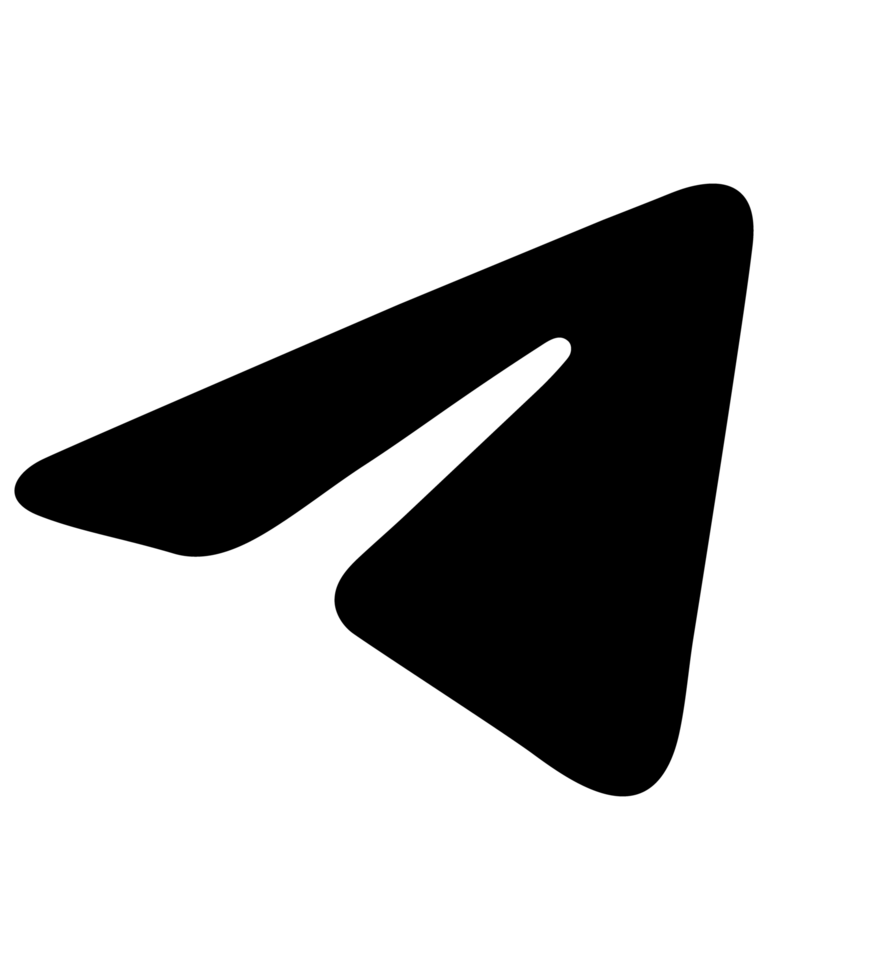
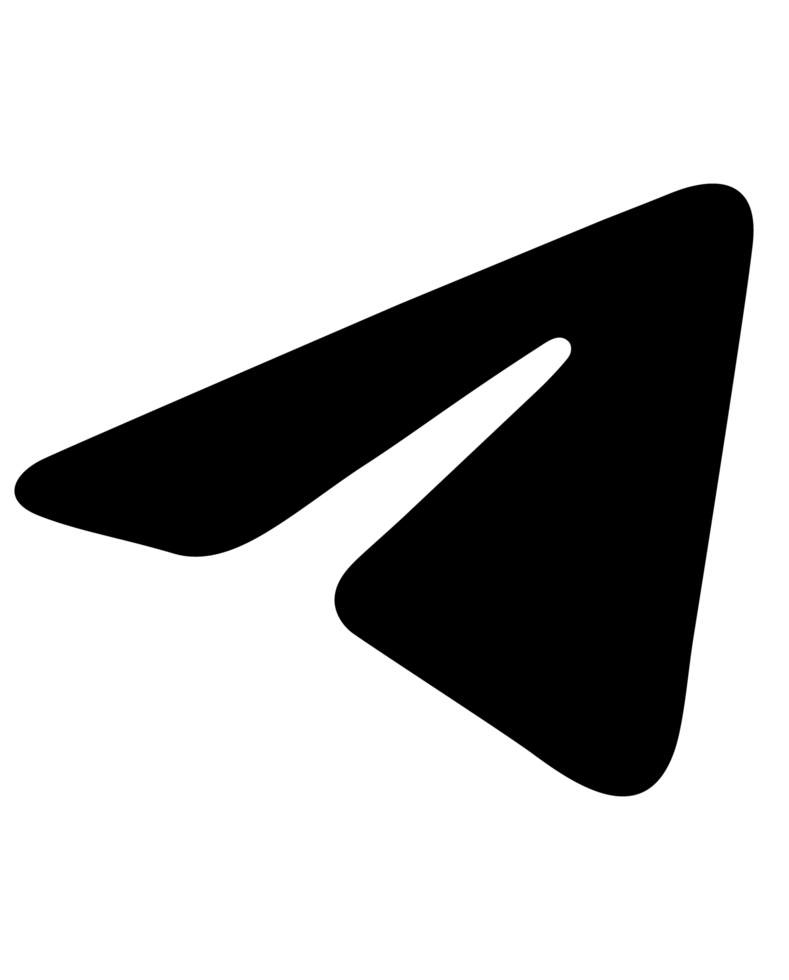
Aggiunta particlesjs

diff --git a/VSC/prova/index.html b/VSC/prova/index.html
@@ -29,7 +29,7 @@
 
         <!-- div con titolo, sottotitolo e bottoni -->
         <div id="containerTitleBtn" class="container text-center">
-            <img id="imgProfilo" src="./img/Solid_black.png" alt="Profilo">
+            <img id="imgProfilo" src="./img/me.jpg" alt="Profilo">
             <h1 id="TitoloNome">Davide Policelli</h1>
             <h4 id="subtitle">Programmer - Web Developer</h4>
             <br>
@@ -88,8 +88,8 @@
         <footer class="bg-gray-800 text-center text-lg-start">
             <div class="text-center p-3 text-dark" style="display: flex; align-items: center;">
                 <a id="LinkGitHUB" href="https://github.com/ThisDavide/"><img id="imgGitHUB" src="./img/GitHub-Symbol.png" alt="GitHUB"></a> 
-                <a id="LinkInstragram" href="https://www.instagram.com/"><img id="imgInstagram" src="./img/instagram.png" alt="Instagram"></a>
-                <a id="LinkTelegram" href="https://www.telegram.com/"><img id="imgTelegram" src="./img/Telegram.png" alt="Telegram"></a>
+                <a id="LinkInstragram" href="https://www.instagram.com/davi.pollice/"><img id="imgInstagram" src="./img/instagram.png" alt="Instagram"></a>
+                <a id="LinkTelegram" href="https://web.telegram.org/k/"><img id="imgTelegram" src="./img/Telegram4.png" alt="Telegram"></a>
                 <p id="footerText"> &copy; <span id="annoCorrente"></span> Davide Policelli. All rights reserved.</p>
             </div>
         </footer>
@@ -97,10 +97,12 @@
         
         <!-- particles.js -->
         <script src="https://cdn.jsdelivr.net/npm/particles.js@2.0.0/particles.min.js"></script>
+
+        <!-- carica il file JSON -->
         <script>
-            particlesJS.load('particles-js', 'particles.json', function() {
-            console.log('particles.js loaded...');
-            });
+        particlesJS.load('particles-js', 'particles.json', function() {
+            console.log('particles.js loaded - callback');
+        });
         </script>
     </body>
 </html>

diff --git a/VSC/prova/about.html b/VSC/prova/about.html
@@ -60,7 +60,7 @@
         <div class="text-center p-3 text-dark" style="display: flex; align-items: center;">
             <a id="LinkGitHUB" href="https://github.com/ThisDavide/"><img id="imgGitHUB" src="./img/GitHub-Symbol.png" alt="GitHUB"></a> 
             <a id="LinkInstragram" href="https://www.instagram.com/"><img id="imgInstagram" src="./img/instagram.png" alt="Instagram"></a>
-            <a id="LinkTelegram" href="https://www.telegram.com/"><img id="imgTelegram" src="./img/Telegram.png" alt="Telegram"></a>
+            <a id="LinkTelegram" href="https://www.telegram.com/"><img id="imgTelegram" src="./img/Telegram4.png" alt="Telegram"></a>
             <p id="footerText"> &copy; <span id="annoCorrente"></span> Davide Policelli. Tutti i diritti riservati.</p>
         </div>
     </footer>
@@ -68,11 +68,12 @@
     
     <!-- particles.js -->
     <script src="https://cdn.jsdelivr.net/npm/particles.js@2.0.0/particles.min.js"></script>
+
+    <!-- carica il file JSON -->
     <script>
-        particlesJS.load('particles-js', './particles.json', function() {
+    particlesJS.load('particles-js', 'particles.json', function() {
         console.log('particles.js loaded - callback');
-        });
-    </script>
+    });
     </script>
     </body>
 </html>

diff --git a/VSC/prova/style.css b/VSC/prova/style.css
@@ -29,12 +29,13 @@ a {
 }
 body {
     background-color: rgb(8, 1, 48) !important;
+    position: relative;
 }
 footer{
     background-color: rgb(24, 2, 109) !important;
 }
 nav {
-    background-color: rgb(8, 1, 48) !important;
+    background-color: rgba(8, 1, 48, 0.5);
 }
 .nav-link {
     color: rgb(230, 226, 226) !important;
@@ -150,7 +151,7 @@ main {
     display: inline-block;
 }
 #imgTelegram {
-    width: 35px;
+    width: 40px;
     display: inline-block;
 }
 #aboutPresentationText {
@@ -179,14 +180,13 @@ main {
 }
 #imgProfilo {
     border-radius: 20%;
+    width: 200px;
 }
-/*Particles NON FUNZIONANTE*/
 #particles-js {
-    position: fixed !important;
-    width: 100vw !important;
-    height: 100vh !important;
-    z-index: 9999 !important; /*Per far si che le particles siano sopra a tutto*/
-    top: 0 !important;
-    left: 0 !important;
-    pointer-events: none; /* così non blocca i click sugli elementi sotto */
+    position: fixed;
+    top: 0;
+    left: 0;
+    width: 100%;
+    height: 100%;
+    z-index: -1;
 }
